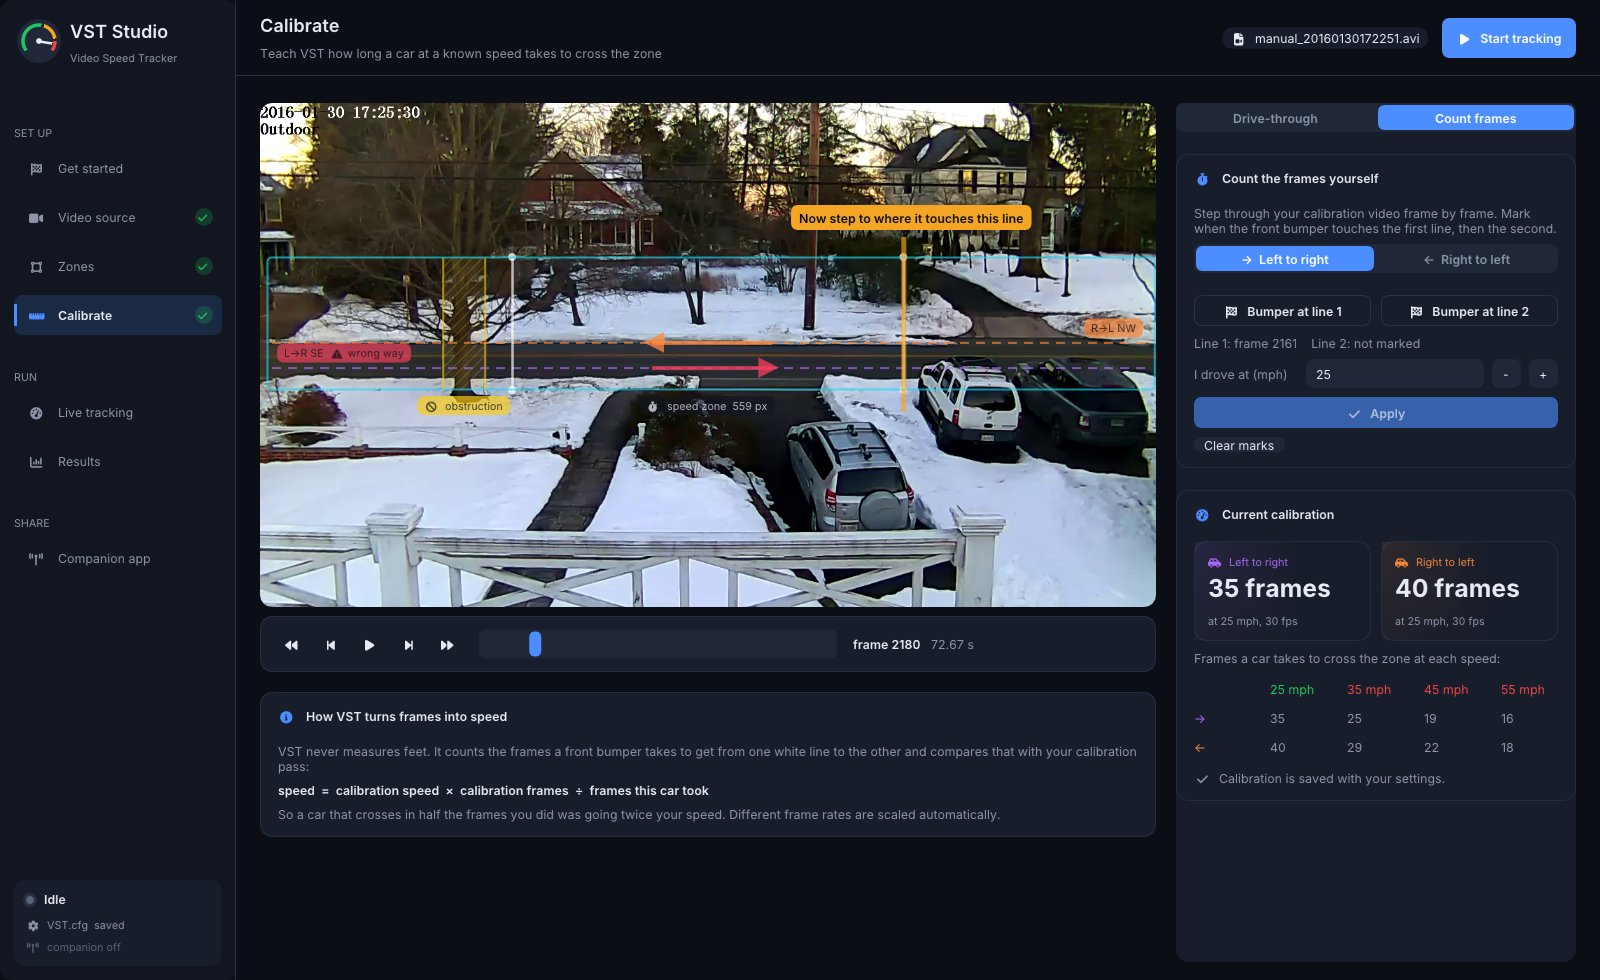
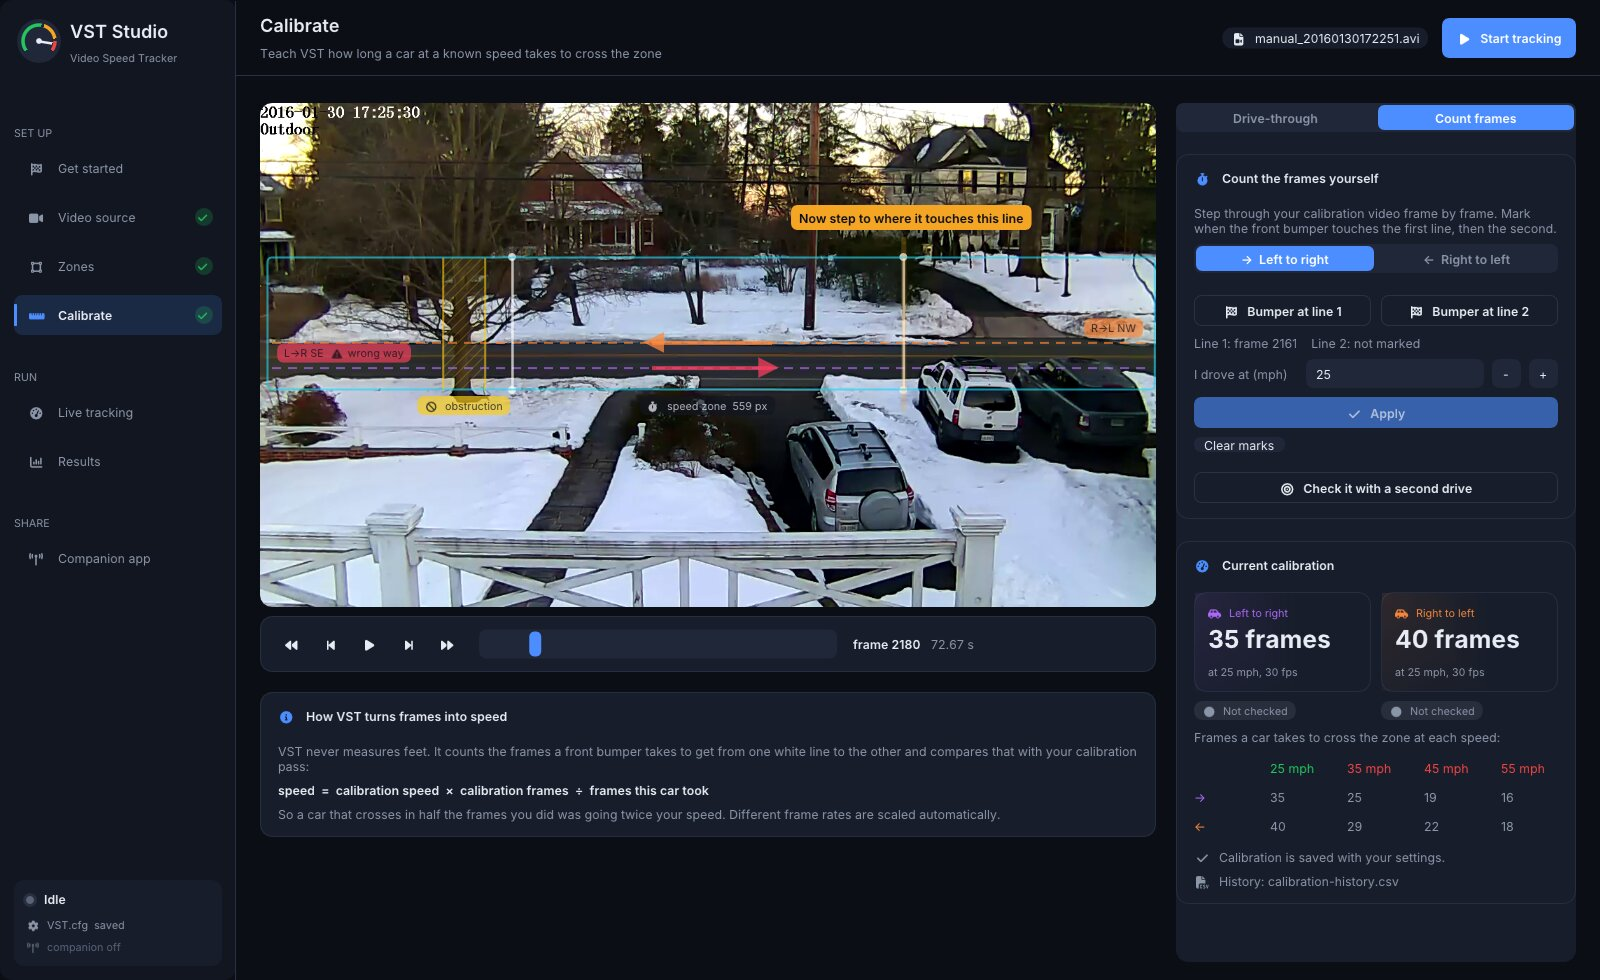
Docs: the calibration check pass and calibration-history.csv
Describes the check pass, the per-direction states and the history file in the
VST Studio Calibrate section and getting-started, and refreshes the Calibrate
screenshot with a new one of a verified check.

Claude-Session: https://claude.ai/code/session_01X1wfbFC7pGCxQdF5j7JydD

diff --git a/docs/vst-studio.md b/docs/vst-studio.md
@@ -2,7 +2,7 @@
 
 VST Studio is the desktop app for VideoSpeedTracker. It runs the same tracker as the `VideoSpeedTracker` command
 line, and replaces hand-editing `VST.cfg` with a guided setup: plan the camera position, draw the zones on the
-picture, calibrate with one drive past, then watch vehicles get measured and review the speeders and wrong-way
+picture, calibrate with one drive past and check it with a second, then watch vehicles get measured and review the speeders and wrong-way
 drivers. It ships in every release package next to the command-line tools (`VSTStudio`, or **VST Studio** in
 the Linux applications menu).
 
@@ -84,6 +84,51 @@ Both keep the other direction's calibration valid by expressing it against the s
 
 ![Calibrate](images/studio/07-calibrate.jpg)
 
+#### Check it with a second drive
+
+A single pass at a speedometer reading is easy to get wrong, and it's the first thing a traffic engineer will ask
+about. Once a direction is calibrated, **Check it with a second drive** tests it with an independent pass:
+
+1. Drive past again, ideally at a different speed from the first pass (say 30 mph after calibrating at 25).
+2. Pick that pass (or mark its frames in **Count frames**) and enter the speed you drove.
+3. VST shows what the current calibration says the pass was beside the speed you drove, and the error.
+
+Within ±2 mph is **Verified**. Off by more, the page lists the usual causes: a speedometer that reads high (most
+do, more so at speed; a GPS speed app is a better reference), a camera or speed lines that moved since the first
+pass, or the two passes being in different lanes (the far lane crosses more road between the lines). It then
+offers to **Redo calibration** from a new pass, or to **Average** the two: each pass implies a `CalibrationFrames`
+value, and the new calibration is their mean, rounded. An averaged calibration counts as new, so check it once more.
+
+The **Current calibration** card shows each direction's standing under its tile: **Not calibrated**,
+**Not checked**, **Verified (±0.3 mph)** or **Check failed (+4.2 mph)**. The Calibrate check mark in the side rail
+still only means a calibration was applied. A check counts only while the calibration it tested is the one in
+`VST.cfg`; changing the value any other way (by hand, or from the companion's settings) makes it "Not checked"
+again.
+
+![Calibration check](images/studio/07b-calibrate-check.jpg)
+
+#### Calibration history
+
+Every calibration and every check is appended to `calibration-history.csv` in the config folder (next to
+`vst-studio.ini`), from the drive-through, **Count frames**, **This was me** on the Results page, and the phone
+companion. Rows are added and never rewritten, so the file is a record you can show someone: when each calibration
+was made, from what pass, and how a second pass agreed with it. The per-direction state on the page is worked out
+from it, so it survives restarts.
+
+```
+Timestamp, Config, Kind, Direction, DrivenMph, Frames, Fps, CalibrationFrames, MeasuredMph, Error
+2026-11-02T10:14:03-05:00, /home/joe/.config/videospeedtracker/VST.cfg, apply, L2R, 25, 34, 30, 34, ,
+2026-11-02T10:21:40-05:00, /home/joe/.config/videospeedtracker/VST.cfg, check, L2R, 30, 28, 30, 34, 30.4, 0.4
+```
+
+- **Config** is the `VST.cfg` the row belongs to; one file serves every config on the computer.
+- **Kind** is `apply` (set the calibration) or `check` (a verification pass). **Direction** is `L2R` or `R2L`.
+- **DrivenMph**, **Frames** and **Fps** describe the pass: the speed you drove and the frames it took between the
+  lines at that frame rate. **CalibrationFrames** is the value in force after the event. An average is recorded as
+  an `apply` of the second pass with the averaged value.
+- **MeasuredMph** (what the calibration says the check pass was) and **Error** (MeasuredMph − DrivenMph) are set
+  for checks only.
+
 ### Live tracking
 
 Vehicles are drawn as they're tracked: a box per vehicle, a white bar on the front bumper the tracker times,
@@ -126,6 +171,7 @@ API call needs it, and **New pairing code** signs out every paired phone. The AP
 |---|---|
 | Settings (`VST.cfg`) | the file shown on the Source page; by default the per-user config (see the README) |
 | App preferences | `vst-studio.ini` in the same config folder: speed limit, site planner inputs, recent sources, pairing token |
+| Calibration history | `calibration-history.csv` in the same config folder: every calibration and check, appended (see [Calibration history](#calibration-history)) |
 | Results | the data folder (`dataPathPrefix`, or the per-user data folder when blank): `Stats/`, `HiLites/`, `Clips/`, `Trace/` |
 
 ## For developers

diff --git a/docs/getting-started.md b/docs/getting-started.md
@@ -91,7 +91,12 @@ speed = CalibrationSpeed × CalibrationFrames × (video fps / CalibrationFPS) / 
    white line and crossing the second.
 3. Put that count in `CalibrationFramesL2R` or `CalibrationFramesR2L`, the speed you drove in `CalibrationSpeed`,
    and the clip's frame rate in `CalibrationFPS`.
-4. Do a second pass at a different speed and check that VST reports it within a mile or two per hour.
+4. Do a second pass at a different speed and check that VST reports it within a mile or two per hour. Keep a note
+   of both passes (speed driven, frames, what VST reported): it's how you show someone the calibration is right.
+
+[VST Studio](vst-studio.md#calibrate) does all of this on its Calibrate page: pick your pass and the speed you drove,
+then **Check it with a second drive**, which shows the error and calls it **Verified** within ±2 mph. Every
+calibration and check it makes is appended to `calibration-history.csv` in the config folder, as that record.
 
 If a direction can't be calibrated, a rough value is the other direction's frame count scaled by how much shorter
 or longer the zone looks in that lane.
